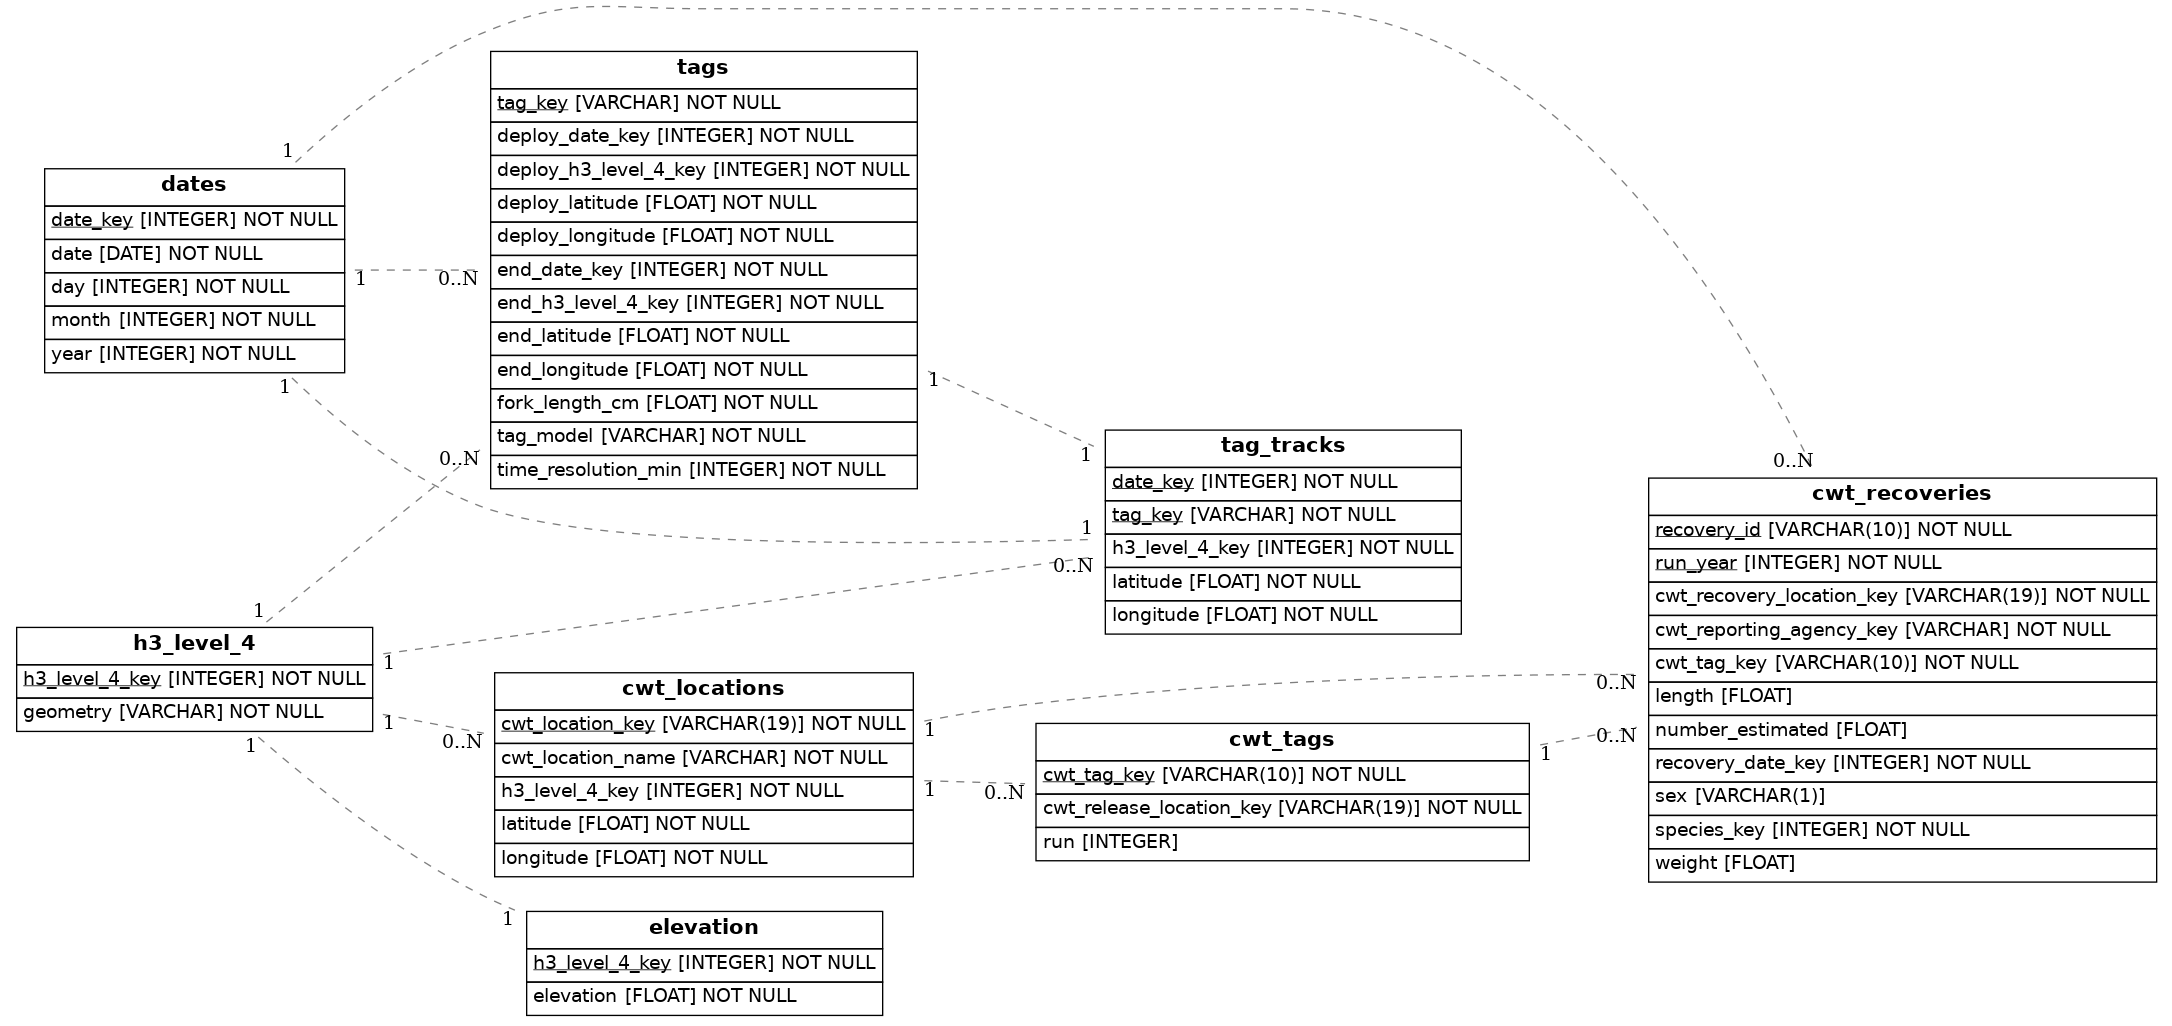
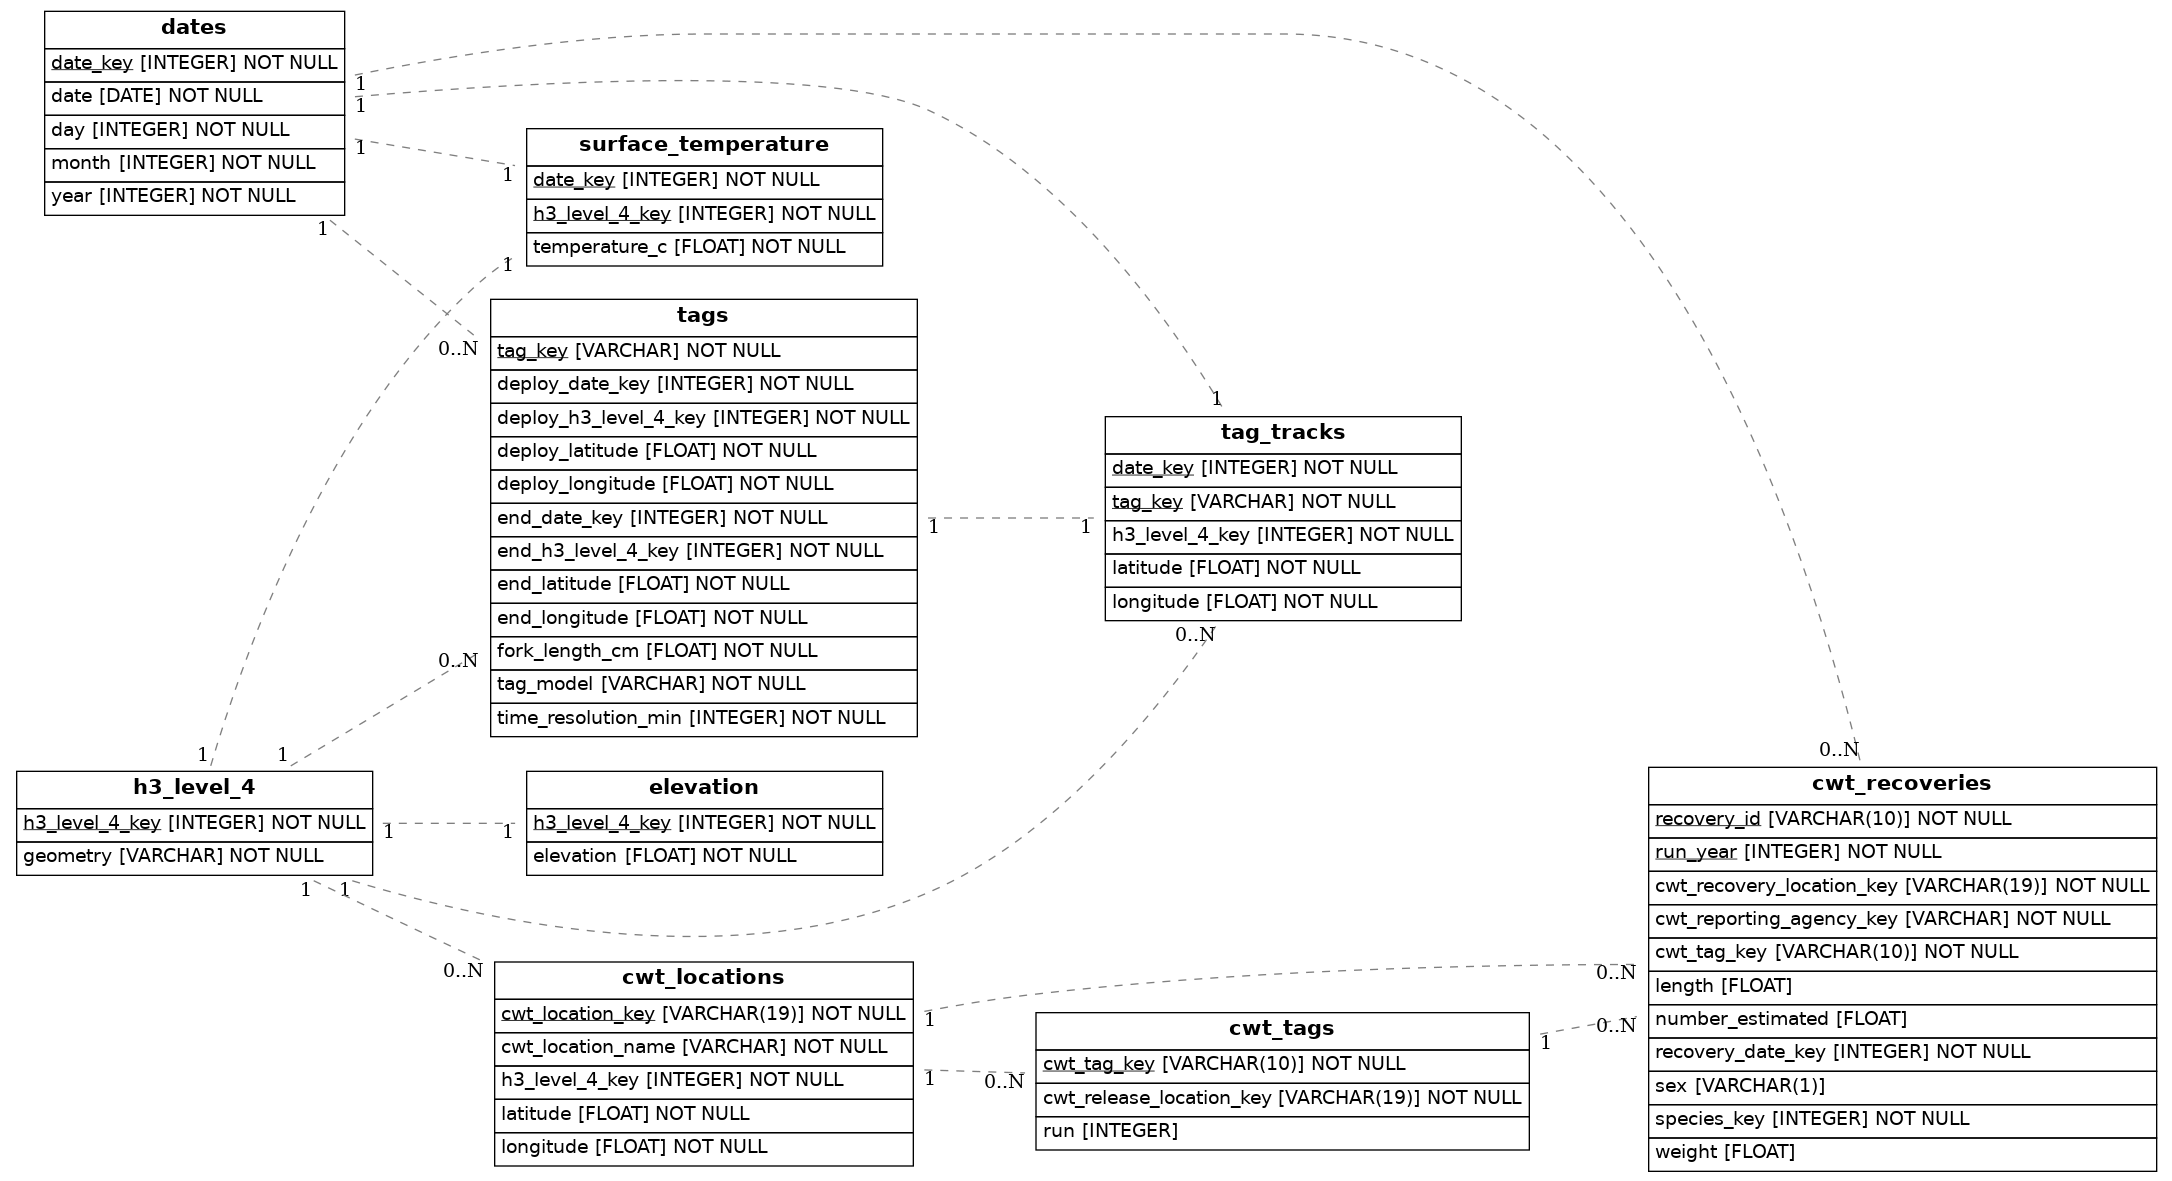
surface temp

diff --git a/mirrorverse/warehouse/tests/test_surface_temperature.py b/mirrorverse/warehouse/tests/test_surface_temperature.py
@@ -1,5 +1,5 @@
 """
-Tests of Integrated Elevation Data
+Tests of Integrated Surface Temperature Data
 """
 
 # pylint: disable=missing-function-docstring, missing-class-docstring, duplicate-code
@@ -14,12 +14,14 @@ from sqlalchemy.orm import Session
 from mirrorverse.warehouse.models import ModelBase
 from mirrorverse.warehouse.utils import get_engine, upload_dataframe
 
-from mirrorverse.warehouse.data.elevation import ELEVATION_DATA
-from mirrorverse.warehouse.models import Elevation
-from mirrorverse.warehouse.etls.facts.elevation import format_elevation
+from mirrorverse.warehouse.data.surface_temperature import SURFACE_TEMPERATURE_DATA
+from mirrorverse.warehouse.models import SurfaceTemperature
+from mirrorverse.warehouse.etls.facts.surface_temperature import (
+    format_surface_temperature,
+)
 
 
-class TestElevation(unittest.TestCase):
+class TestSurfaceTemperature(unittest.TestCase):
 
     def setUp(self):
         engine = get_engine(db_url="sqlite://")
@@ -31,19 +33,26 @@ class TestElevation(unittest.TestCase):
         self.session.close()
 
     def test_upload_elevation(self):
-        formatted = format_elevation(ELEVATION_DATA)
-        upload_dataframe(self.session, Elevation, formatted)
-        stmt = select(Elevation)
+        formatted = format_surface_temperature(SURFACE_TEMPERATURE_DATA)
+        upload_dataframe(self.session, SurfaceTemperature, formatted)
+        stmt = select(SurfaceTemperature)
         results = pd.read_sql_query(stmt, self.session.bind)
         expected = pd.DataFrame(
             [
                 {
                     "h3_level_4_key": 594804239797059583,
-                    "elevation": 100.0,
+                    "temperature_c": 5.0,
+                    "date_key": 1609459200,
+                },
+                {
+                    "h3_level_4_key": 594804239797059583,
+                    "temperature_c": 10.0,
+                    "date_key": 1612137600,
                 },
                 {
                     "h3_level_4_key": 594992694372073471,
-                    "elevation": 150.0,
+                    "temperature_c": 7.5,
+                    "date_key": 1609459200,
                 },
             ]
         )

diff --git a/mirrorverse/warehouse/etls/facts/surface_temperature.py b/mirrorverse/warehouse/etls/facts/surface_temperature.py
@@ -1,0 +1,31 @@
+"""
+Surface Temperature ETLs
+"""
+
+from mirrorverse.warehouse.etls.dimensions.spatial import add_spatial_keys_to_facts
+from mirrorverse.warehouse.etls.dimensions.dates import add_date_keys_to_facts
+from mirrorverse.warehouse.models import SurfaceTemperature
+
+
+def format_surface_temperature(raw_data):
+    """
+    Inputs:
+    - raw_data (pd.DataFrame): raw surface temperature data
+
+    Returns a formatted DataFrame
+    """
+
+    dataframe = raw_data.copy()
+    dataframe = add_spatial_keys_to_facts(
+        dataframe, lat_col="latitude", lon_col="longitude"
+    )
+    dataframe = add_date_keys_to_facts(dataframe, "date", date_key_column="date_key")
+    dataframe = (
+        dataframe[["h3_level_4_key", "date_key", "temperature_c"]]
+        .groupby(["h3_level_4_key", "date_key"])
+        .mean()
+        .reset_index()
+    )
+
+    columns = [column.key for column in SurfaceTemperature.__table__.columns]
+    return dataframe[columns]

diff --git a/mirrorverse/warehouse/data/surface_temperature.py b/mirrorverse/warehouse/data/surface_temperature.py
@@ -1,0 +1,36 @@
+"""
+Fake Surface Temperature Data for Testing
+"""
+
+from datetime import datetime
+
+import pandas as pd
+
+SURFACE_TEMPERATURE_DATA = pd.DataFrame(
+    [
+        {
+            "latitude": 46.6,
+            "longitude": -133.2,
+            "temperature_c": 5,
+            "date": datetime(2021, 1, 1),
+        },
+        {
+            "latitude": 46.6,
+            "longitude": -133.2,
+            "temperature_c": 10,
+            "date": datetime(2021, 1, 1),
+        },
+        {
+            "latitude": 56.6,
+            "longitude": -133.2,
+            "temperature_c": 5,
+            "date": datetime(2021, 1, 1),
+        },
+        {
+            "latitude": 56.6,
+            "longitude": -133.2,
+            "temperature_c": 10,
+            "date": datetime(2021, 2, 1),
+        },
+    ]
+)

diff --git a/mirrorverse/warehouse/api.py b/mirrorverse/warehouse/api.py
@@ -14,6 +14,9 @@ from mirrorverse.warehouse.etls.dimensions.cwt import (
 from mirrorverse.warehouse.etls.dimensions.tags import build_tags
 from mirrorverse.warehouse.etls.facts.tags import format_tag_tracks
 from mirrorverse.warehouse.etls.facts.elevation import format_elevation
+from mirrorverse.warehouse.etls.facts.surface_temperature import (
+    format_surface_temperature,
+)
 
 DIMENSION_FORMATTERS = {
     "dates": build_dates,
@@ -26,4 +29,5 @@ FACT_FORMATTERS = {
     "cwt_recoveries": format_cwt_recoveries_data,
     "tag_tracks": format_tag_tracks,
     "elevation": format_elevation,
+    "surface_temperature": format_surface_temperature,
 }

diff --git a/mirrorverse/warehouse/models/facts.py b/mirrorverse/warehouse/models/facts.py
@@ -61,3 +61,19 @@ class Elevation(ModelBase):
         ForeignKey("h3_level_4.h3_level_4_key"), primary_key=True
     )
     elevation: Mapped[float]
+
+
+class SurfaceTemperature(ModelBase):
+    """
+    Surface Temperature Facts Table
+    """
+
+    __tablename__ = "surface_temperature"
+
+    h3_level_4_key: Mapped[int] = mapped_column(
+        ForeignKey("h3_level_4.h3_level_4_key"), primary_key=True
+    )
+    date_key: Mapped[int] = mapped_column(
+        ForeignKey("dates.date_key"), primary_key=True
+    )
+    temperature_c: Mapped[float]

diff --git a/mirrorverse/warehouse/models/__init__.py b/mirrorverse/warehouse/models/__init__.py
@@ -14,4 +14,4 @@ class ModelBase(DeclarativeBase):
 
 
 from .dimensions import Dates, CWTLocations, CWTTags, H3Level4, Tags
-from .facts import CWTRecoveries, TagTracks, Elevation
+from .facts import CWTRecoveries, TagTracks, Elevation, SurfaceTemperature

diff --git a/mirrorverse/warehouse/tests/test_tags.py b/mirrorverse/warehouse/tests/test_tags.py
@@ -1,5 +1,5 @@
 """
-Tests of Integrated CWT Data
+Tests of Integrated Tag Data
 """
 
 # pylint: disable=missing-function-docstring, missing-class-docstring, duplicate-code
